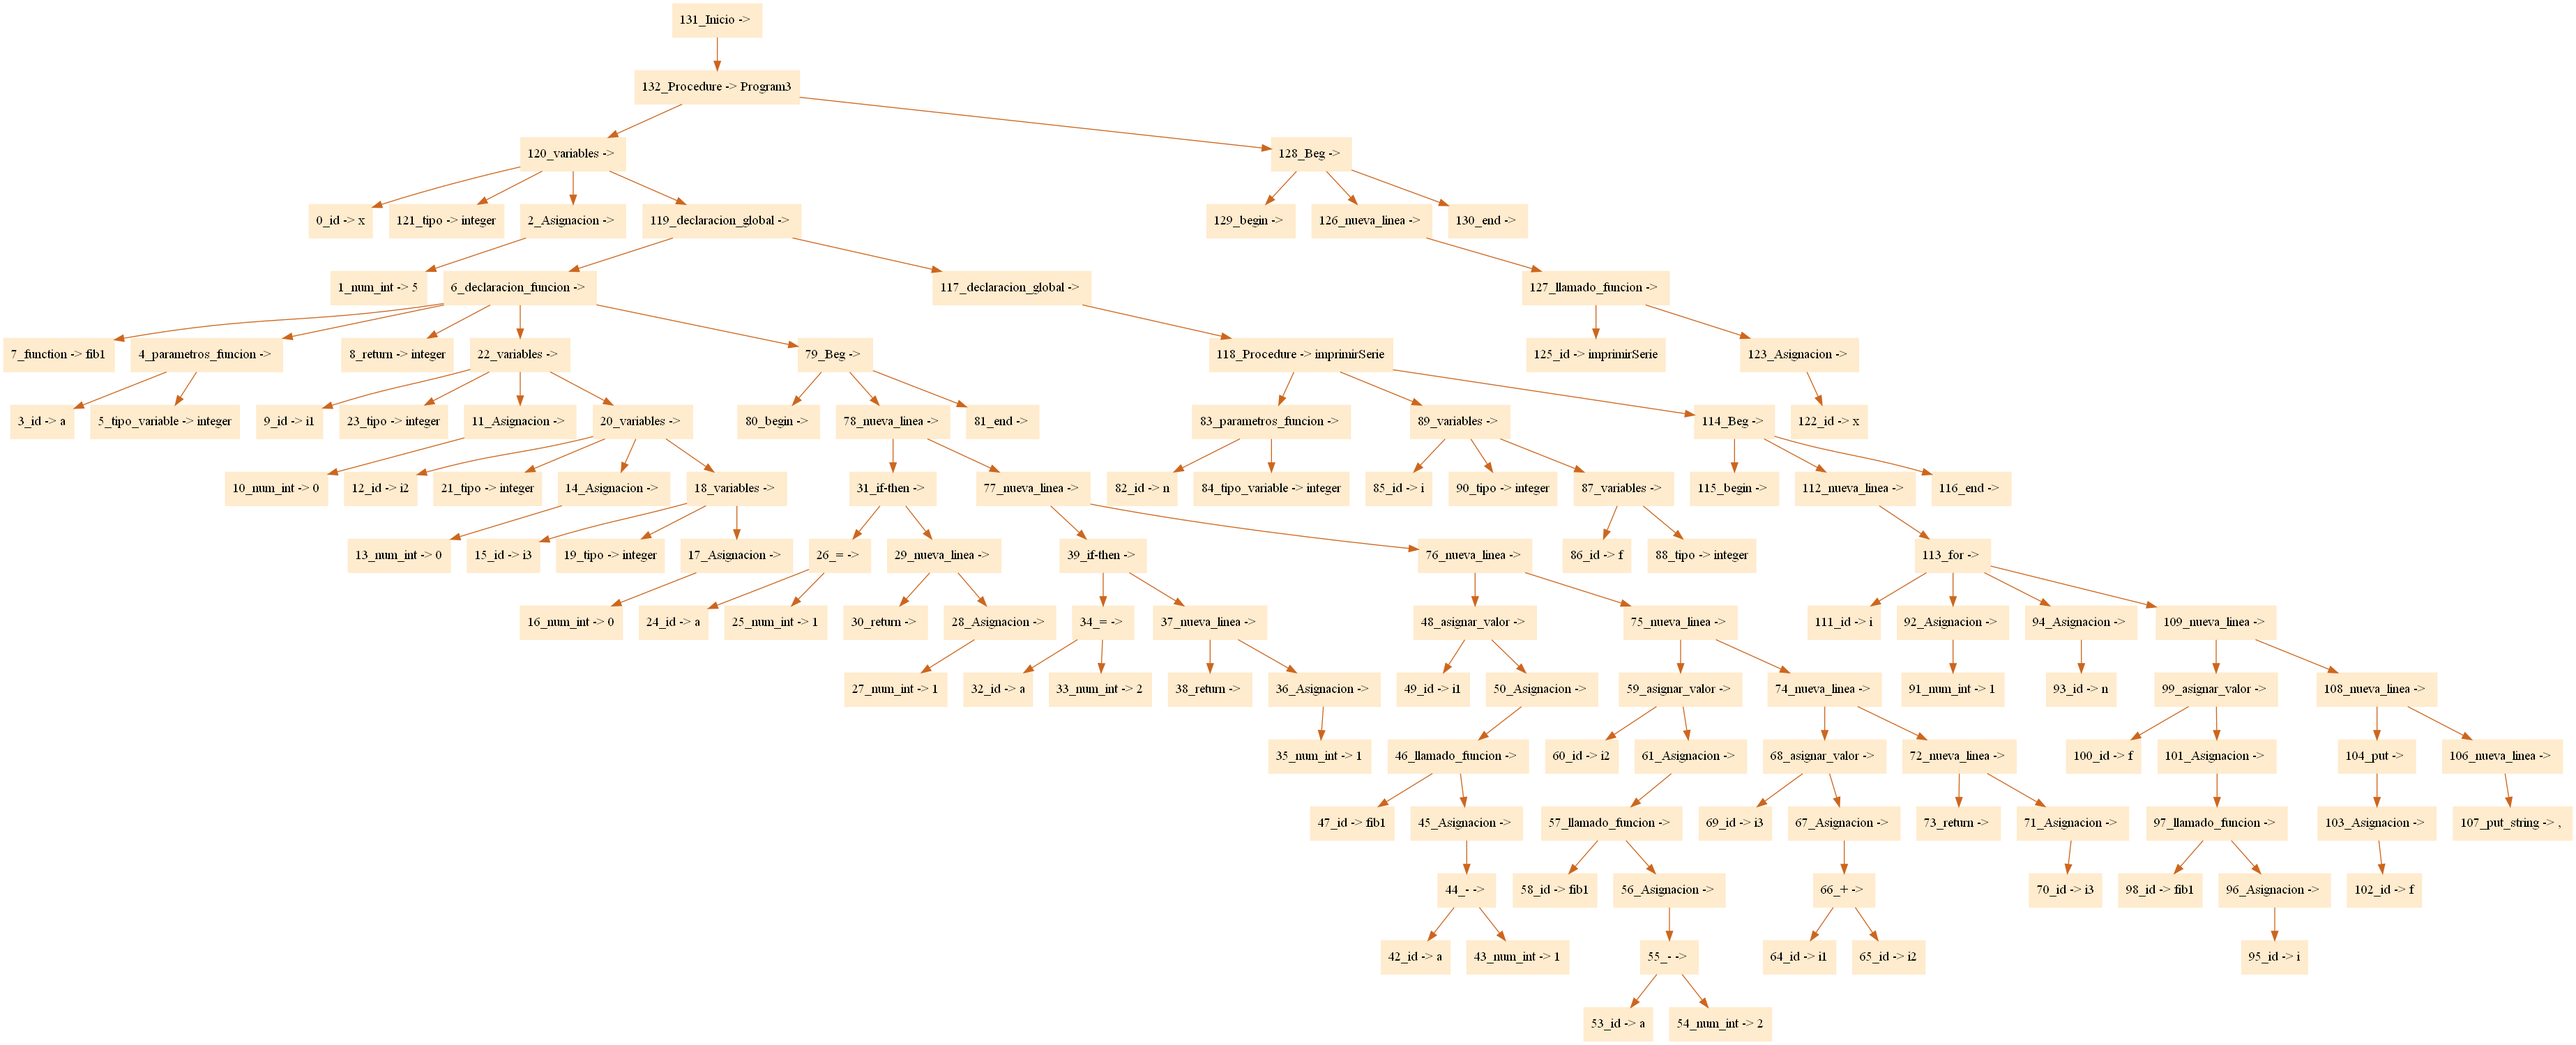
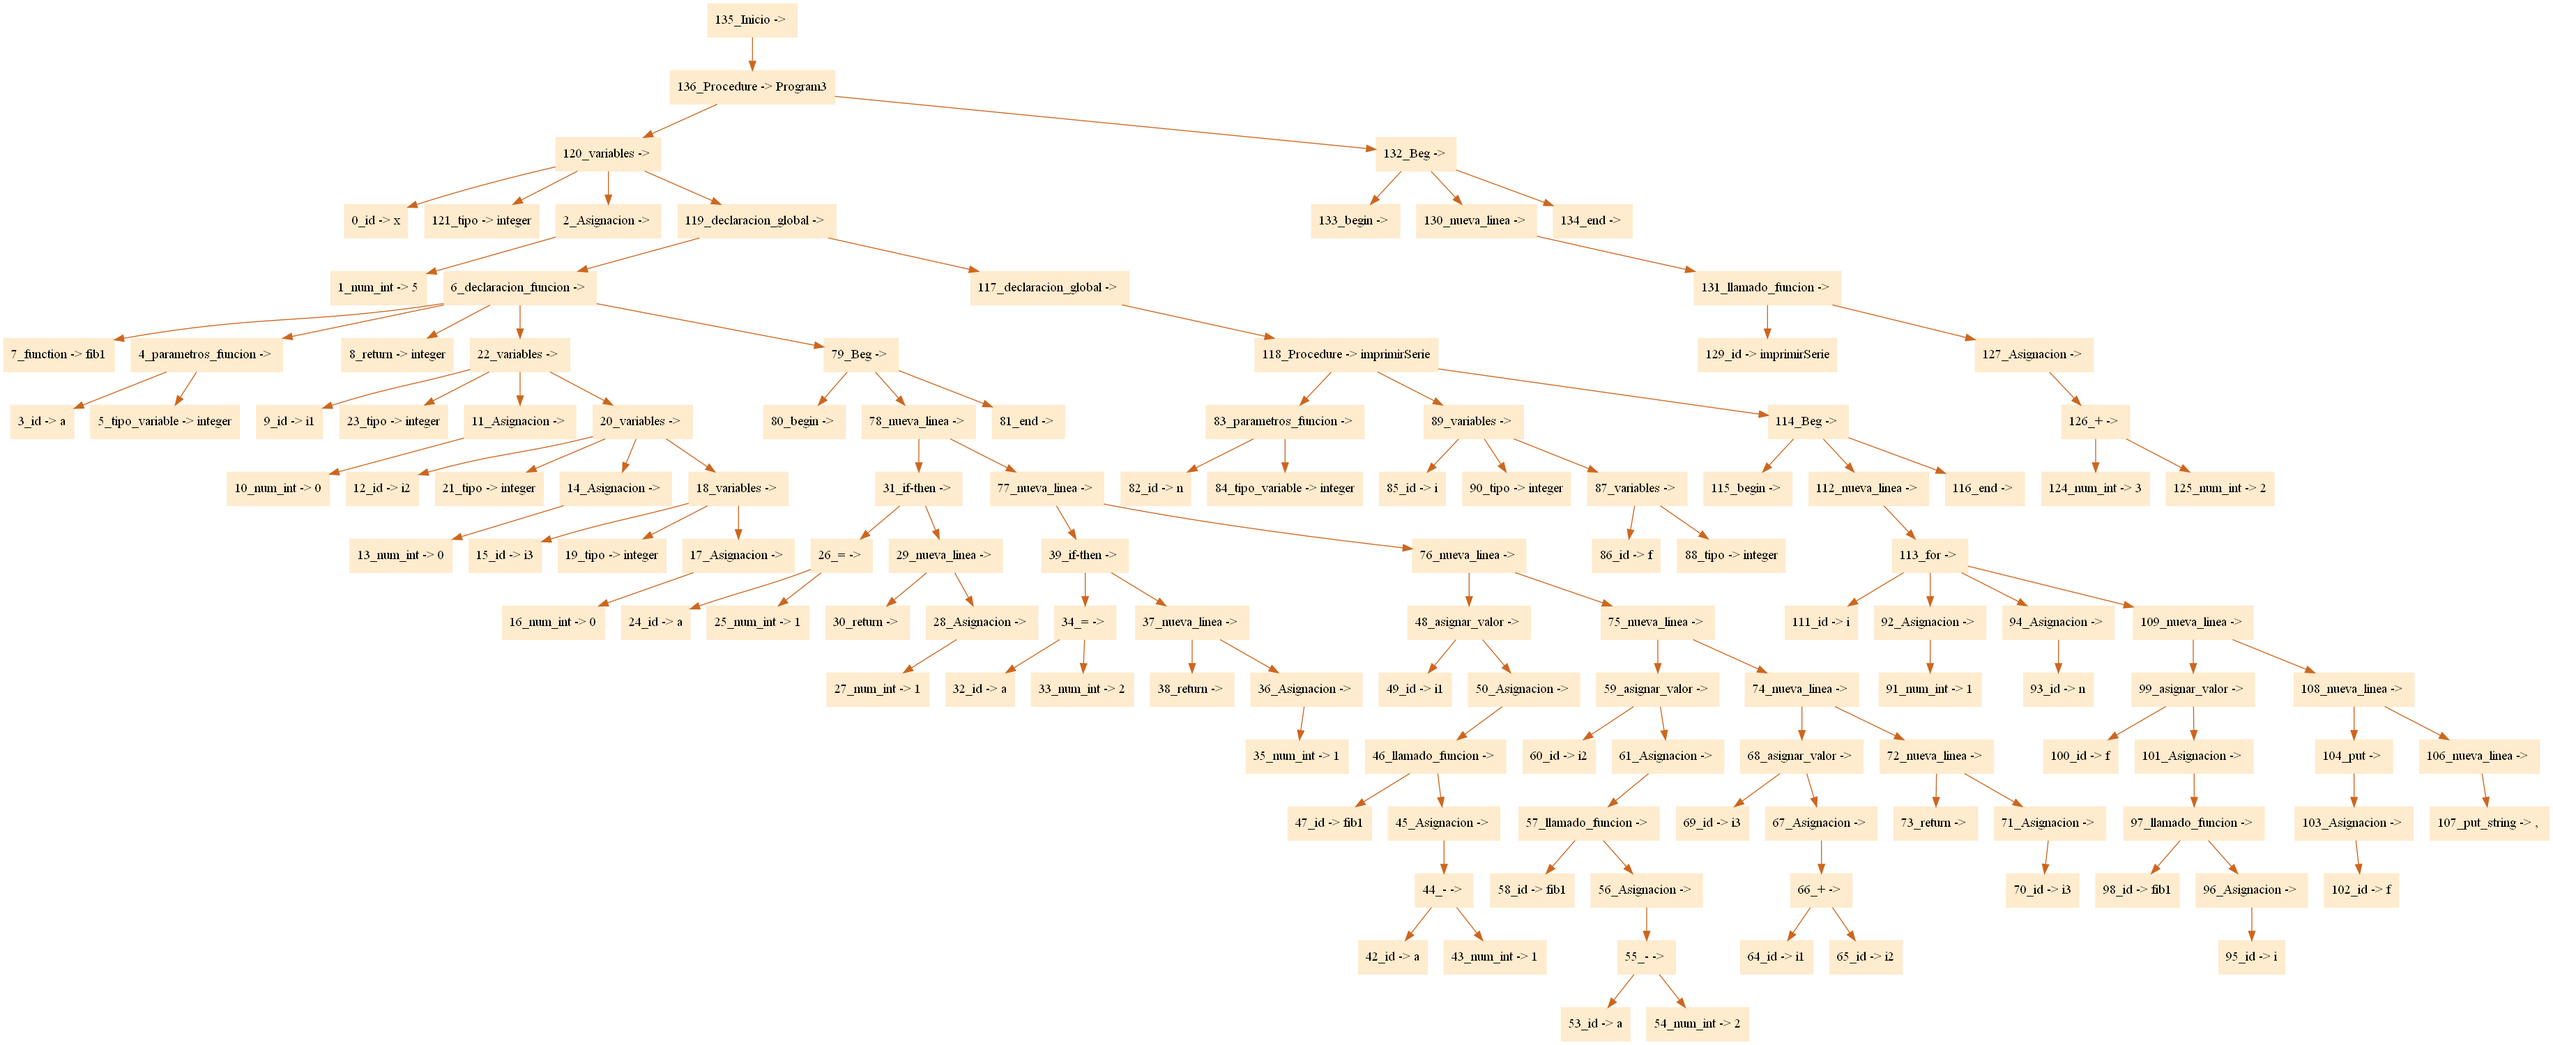
BELLA CIAO

diff --git a/ProyectoCompiladores/src/codigoFinal/CodigoFinal.java b/ProyectoCompiladores/src/codigoFinal/CodigoFinal.java
@@ -436,7 +436,7 @@ public class CodigoFinal {
             } else if (estaEnParametros(cr.getArgs2()) != null) {
                 String s = buscarEnS(cr.getArgs2());
                 isreg = true;
-                lineas.add("        " + oprel + " $" + temp1 + ", $" + s + ", _" + etiq);
+                lineas.add("\t " + oprel + " $" + temp1 + ", $" + s + ", _" + etiq);
             } else {
                 String tem = BuscarTemporal(cr.getArgs2());
                 isreg = true;
@@ -692,6 +692,7 @@ public class CodigoFinal {
             registros_A[Integer.parseInt(a.substring(1))] = bool;
             //else if de parametros
         } else if (estaEnParametros(cr.getArgs1()) != null) {
+            System.out.println("entra es un parametro");
             String s = buscarEnS(cr.getArgs1());
             lineas.add("\t move $" + a + ", $" + s);
         } else if (estaEnVariablesLocales(cr.getArgs1()) != null) {
@@ -755,10 +756,11 @@ public class CodigoFinal {
                 String posicion = locateVarLocales(asignacion.getResult());
                 lineas.add("\t " + forma + " $v0, -" + posicion + "($fp)");
                 lineas.add("");
-//                }else if (estaEnParametros(asignacion.getArgs1()) != null) {
-//                String s = buscarEnS(asignacion.getArgs1());
-//                lineas.add("        " + forma + " $" + s + ", -" + (offsetLocales + vartoken.getOffset()) + "($fp)");
-//                lineas.add("");
+            } else if (estaEnParametros(asignacion.getArgs1()) != null) {
+                String s = buscarEnS(asignacion.getArgs1());
+                String posicion = locateVarLocales(asignacion.getResult());
+                lineas.add("\t " + forma + " $" + s + ", " + posicion + "($fp)");
+                lineas.add("");
             } else if (asignacion.getArgs1().matches("[0-9]+")) {
                 String temp = getTempDisponible();
                 lineas.add("\t li $" + temp + ", " + asignacion.getArgs1());
@@ -776,7 +778,12 @@ public class CodigoFinal {
                 lineas.add("\t li $" + temp + ", " + bool1);
                 lineas.add("\t sw $" + temp + ", -" + posicion + "($fp)");
                 //aqui iria else if de parametros
-            } else { //aqui iria parametros
+            } else if (estaEnParametros(asignacion.getArgs1()) != null) {
+                String s = buscarEnS(asignacion.getArgs1());
+                String posicion = locateVarLocales(asignacion.getResult());
+                lineas.add("        " + forma + " $" + s + ", -" + posicion + "($fp)");
+                lineas.add("");
+            } else {
                 String temp = getTempDisponible();
                 if (estaEnVariablesGlobales(asignacion.getArgs1()) != -1) {
                     int index = estaEnVariablesGlobales(asignacion.getArgs1());
@@ -792,6 +799,25 @@ public class CodigoFinal {
                 }
                 lineas.add("");
             }
+        } else if (estaEnParametros(asignacion.getResult()) != null) {
+            String s = buscarEnS(asignacion.getResult());
+            if (BuscarTemporal(asignacion.getArgs1()) != null) {
+                String temp = BuscarTemporal(asignacion.getArgs1());
+                lineas.add("\t move $" + s + ", $" + temp);
+                setTempDisponible(temp);
+                lineas.add("");
+            } else if (asignacion.getArgs1().matches("RET[0-9]+")) {
+                lineas.add("\t move $" + s + ", $v0");
+                lineas.add("");
+            } else if (estaEnParametros(asignacion.getArgs1()) != null) {
+                String s1 = buscarEnS(asignacion.getArgs1());
+                lineas.add("\t move $" + s1 + ", $" + s);
+                lineas.add("");
+            } else if (estaEnVariablesGlobales(asignacion.getArgs1()) != -1) {
+                lineas.add("\t move $" + s + ", _" + asignacion.getArgs1());
+                lineas.add("");
+            }
+
         }
     }
 

diff --git a/ProyectoCompiladores/src/codigoIntermedio/Recorrido.java b/ProyectoCompiladores/src/codigoIntermedio/Recorrido.java
@@ -260,7 +260,24 @@ public class Recorrido {
                                 recorrerLlamadoFuncion(hoja.getHijos().get(1));
                                 hoja.getHijos().get(1).setVisitado2(true);
                             } else { //si no, solo hay un parámetro
-                                cuadruplos.generarCuadruplo("PARAM", hoja.getParamDerecha().getValor(), "", ""); //solo generamos un parámetro
+                                switch (hoja.getParamDerecha().getNombre()) {
+                                    case "num_int":
+                                        cuadruplos.generarCuadruplo("PARAM", hoja.getParamDerecha().getValor(), "", "");
+                                        break;
+                                    case "numfloat":
+                                        cuadruplos.generarCuadruplo("PARAM", hoja.getParamDerecha().getValor(), "", "");
+                                        break;
+                                    case "boolean":
+                                        cuadruplos.generarCuadruplo("PARAM", hoja.getParamDerecha().getValor(), "", "");
+                                        break;
+                                    case "id":
+                                        cuadruplos.generarCuadruplo("PARAM", hoja.getParamDerecha().getValor(), "", "");
+                                        break;
+                                    default:
+                                        recorrerAsignacion(hoja.getParamDerecha());
+                                        cuadruplos.generarCuadruplo("PARAM", cuadruplos.getLastTemp(), "", "");
+                                        break;
+                                }
                                 hoja.getHijos().get(1).setVisitado2(true);
                             }
                             cuadruplos.generarCuadruplo("CALL", hoja.getHijos().get(0).getValor(), "", ""); //se genera el llamado a la función

diff --git a/ProyectoCompiladores/src/proyectocompiladores/InterfazCompilador.java b/ProyectoCompiladores/src/proyectocompiladores/InterfazCompilador.java
@@ -880,10 +880,12 @@ public class InterfazCompilador extends javax.swing.JFrame {
                 }
                 if (hoja.getNombre().equals("for")) {
                     String ambitofor = ambito + "." + contadorid;
+                    System.out.println(ambitofor + " abmito");
                     contadorid++;
                     SymbolTable.insertar2(hoja.getHijos().get(0).getValor(), "integer", "", false, false, false, ambitofor, offset);
                     comprobarValor(hoja.getHijos().get(1), ambito, "integer");
                     comprobarValor(hoja.getHijos().get(2), ambito, "integer");
+                    recorrerCuerpo(hoja, ambitofor, retorno, tipoRetorno);
                 }
                 if (hoja.getNombre().equals("while")) {
                     //System.out.println("Hay un while");
